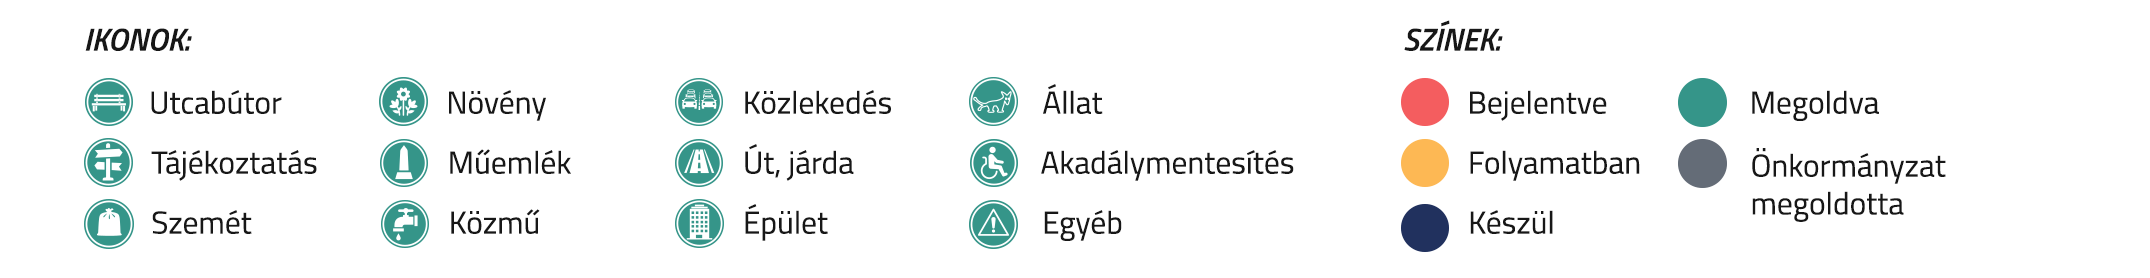
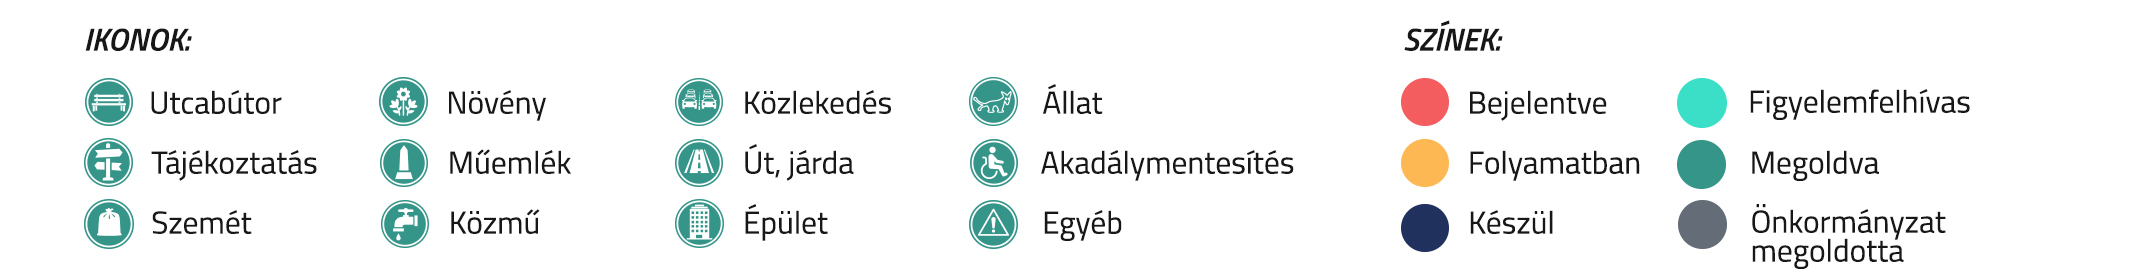
2023 01 19 fix

Changed region(s): [[0.7791, 0.6906, 0.9037, 0.9496], [0.7791, 0.2878, 0.9349, 0.4604], [0.7791, 0.4892, 0.9037, 0.6906]]

diff --git a/templates/single_submission.html b/templates/single_submission.html
@@ -19,7 +19,7 @@
   <!--LIGHTBOX-->
   <link href="../static/css/lightbox.css" rel="stylesheet" />
   <!--META-->
-  <title>{{ submission[0].title }}</title>
+  <title>Rendkívüli Ügyek Minisztériuma</title>
   <meta property="og:site_name" content="Rendkívüli Ügyek Minisztériuma" />
   <meta property="og:title" content="{{ submission[0].title }}" />
   {% if submission[0].solution %}
@@ -80,14 +80,15 @@
     </strong>{{ submission[0].solution }}</p>
   {% endif %}
          
-  {% if submission[0].status != 'Befejezve' 
-     and submission[0].status != 'Inaktív' 
+  {% if submission[0].status != 'Megoldva' 
+     and submission[0].status != 'Inaktív'
+     and submission[0].status != 'Figyelemfelhívás' 
      and submission[0].status != 'Duplika'
      and submission[0].status != 'Hivatal megoldotta'
   %}
     <p>Ha szeretnél részt venni a felújításban, írj nekünk a
-    <a href="mailto: kovacs.gergely@mkkp.hu?subject=Városfelújítós jelentkezés: {{ submission[0].title }} id:{{ submission[0].id }}">
-     <strong>kovacs.gergely@mkkp.hu</strong>
+    <a href="mailto: rendkivuliugyek@mkkp.hu?subject=Városfelújítós jelentkezés: {{ submission[0].title }} id:{{ submission[0].id }}">
+     <strong>rendkivuliugyek@mkkp.hu</strong>
     </a>email címre!</p>
   {% endif %}     
         
@@ -308,9 +309,9 @@
        <p>Mutasd ugyanezt Google térképen!</p>
      </a>
 
-     {% if current_user.email == submission[0].owner_email 
-        or role == 'coordinator' 
-        or role == 'admin' %}
+     {% if role == 'coordinator' 
+        or role == 'admin' 
+     %}
         
      <br />
         
@@ -339,15 +340,16 @@
    });
    
    map.on('load', () => {
-   var status_dict = {
-     'Befejezve': 'befejezve',
-     'Bejelentve': 'bejelentve',
-     'Duplika': 'szurke',
-     'Folyamatban': 'folyamatban',
-     'Hivatal megoldotta': 'szurke',
-     'Inaktív': 'szurke',
-     'Készül': 'keszul'
-     };
+    var status_dict = {
+    'Megoldva': 'megoldva',
+    'Figyelemfelhívás': 'figyelemfelhivas',
+    'Bejelentve': 'bejelentve',
+    'Duplika': 'szurke',
+    'Folyamatban': 'folyamatban',
+    'Hivatal megoldotta': 'szurke',
+    'Inaktív': 'szurke',
+    'Készül': 'keszul',
+    }
 
    var type_dict = {
      'Akadálymentesítés': 'akadalymentesites',

diff --git a/templates/all_submission.html b/templates/all_submission.html
@@ -117,7 +117,8 @@
             <option>Bejelentve</option>
             <option>Folyamatban</option>
             <option>Készül</option>
-            <option>Befejezve</option>
+            <option>Megoldva</option>
+            <option>Figyelemfelhívás</option>
           </select>
 
           <label for="type">Típus</label>
@@ -251,7 +252,7 @@
                 <label>&nbsp;&nbsp;{{ row.problem_type }}</label>
               </div>
             </div>
-            {% elif status == 'Befejezve' %}
+            {% elif status == 'Megoldva' %}
             <div
               class="card_head"
               style="background-color:#35968a; color:white;"
@@ -261,6 +262,16 @@
                 <label>&nbsp;&nbsp;{{ row.problem_type }}</label>
               </div>
             </div>
+            {% elif status == 'Figyelemfelhívás' %}
+            <div
+              class="card_head"
+              style="background-color:#3be0c8; color:white;"
+            >
+              <div class="card_label">
+                <img src="/static/category/{{ row.problem_type }}.png" />
+                <label>&nbsp;&nbsp;{{ row.problem_type }}</label>
+              </div>
+            </div> 
             {% endif%}
 
             <img
@@ -351,7 +362,7 @@
                 <label>&nbsp;&nbsp;{{ row.problem_type }}</label>
               </div>
             </div>
-            {% elif status == 'Befejezve' %}
+            {% elif status == 'Megoldva' %}
             <div
               class="card_head"
               style="background-color:#35968a; color:white;"
@@ -361,6 +372,16 @@
                 <label>&nbsp;&nbsp;{{ row.problem_type }}</label>
               </div>
             </div>
+            {% elif status == 'Figyelemfelhívás' %}
+            <div
+              class="card_head"
+              style="background-color:#3be0c8; color:white;"
+            >
+              <div class="card_label">
+                <img src="/static/category/{{ row.problem_type }}.png" />
+                <label>&nbsp;&nbsp;{{ row.problem_type }}</label>
+              </div>
+            </div>            
             {% endif%}
 
             <img

diff --git a/templates/map.html b/templates/map.html
@@ -85,10 +85,10 @@
             name="status"
           >
             <option selected value="">Válassz a státuszok közül!</option>
-            <option>Bejelentve</option>
+            <option>Megoldva</option>
+            <option>Figyelemfelhívás</option>
             <option>Folyamatban</option>
             <option>Készül</option>
-            <option>Befejezve</option>
           </select>
         </div>
         <button type="submit" class="btn btn-light form-control rounded-0">
@@ -108,8 +108,8 @@
 
     <picture>
       <source media="(max-width: 465px)"
-      srcset={{url_for('static',filename='site_img/jelmagyarazat_mobil.jpg')}}>
-      <img src={{url_for('static',filename='site_img/jelmagyarazat.png')}}
+      srcset={{url_for('static',filename='site_img/jelmagyarazat_mobil.webp')}}>
+      <img src={{url_for('static',filename='site_img/jelmagyarazat.webp')}}
       alt="Jelmagyarázat">
     </picture>
 
@@ -126,7 +126,8 @@
 
   <script>
     var status_dict = {
-    'Befejezve': 'befejezve',
+    'Megoldva': 'megoldva',
+    'Figyelemfelhívás': 'figyelemfelhivas',
     'Bejelentve': 'bejelentve',
     'Duplika': 'szurke',
     'Folyamatban': 'folyamatban',

diff --git a/templates/change_submission_data.html b/templates/change_submission_data.html
@@ -34,12 +34,13 @@
               onchange="detectChange(this)">
         <option selected>{{ submission.status }}</option>
         <option value="Bejelentve">Bejelentve</option>
+        <option value="Megoldva">Megoldva</option>
+        <option value="Figyelemfelhívás">Figyelemfelhívás</option>
         <option value="Folyamatban">Folyamatban</option>
         <option value="Készül">Készül</option>
         <option value="Hivatal megoldotta">Hivatal megoldotta</option>
         <option value="Inaktív">Inaktív</option>
         <option value="Duplika">Duplika</option>
-        <option value="Befejezve">Befejezve</option>
       </select>
       <br />
       <hr />
@@ -176,7 +177,7 @@
   <script>
     function detectChange(status) {
       var content = document.getElementById("solution_div");
-      if (status.value === "Befejezve") {
+      if (status.value === "Megoldva") {
         if (content.style.display === "block") {
           content.style.display = "none";
         } else {

diff --git a/templates/user_account.html b/templates/user_account.html
@@ -69,9 +69,12 @@
      or role == 'admin' %}
     <a href="https://drive.google.com/drive/folders/1UOZ2Hhkbx_BJcnWon-641U0I1h00DL2j" target="_blank">
       <p>Dokumentáció és egyéb anyagok</p>
-    </a>     
+    </a>
     <a href="https://github.com/xngst/rendkivuli_ugyek"  target="_blank">
       <p>Github oldal</p>
+    </a>
+    <a href="https://rendkivuliugyek.com/dashboard/hourly_load" target="_blank">
+      <p>Monitorozó oldal</p>
     </a>
   {% endif %}  
   <a href="/user_data_info" target="_blank">

diff --git a/templates/statistics.html b/templates/statistics.html
@@ -78,7 +78,8 @@
       'bejelentett',
       'folyamatban',
       'készül',
-      'befejezett'
+      'befejezett',
+      'figyelemfelhívás'
      ];
 
     var data = {
@@ -89,8 +90,9 @@
       '#feb955',
       '#22325e',
       '#35968a',
+      '#3be0c8',
       ],
-      data: [{{submitted_count}},{{wip_count}},{{progress_count}},{{completed_count}}],
+      data: [{{submitted_count}},{{wip_count}},{{progress_count}},{{completed_count}},{{awareness_count_count}}],
     }]
     };
 

diff --git a/templates/base.html b/templates/base.html
@@ -13,7 +13,7 @@
   -->
   
 <html lang="hu">
-  <title>Városfelújítós</title>
+  <title>Rendkívüli Ügyek Minisztériuma</title>
   <meta charset="UTF-8" />
   <meta name="author" content="prof_of_duplo" />
   <meta name="viewport" content="width=device-width, initial-scale=1.0" />

diff --git a/app.py b/app.py
@@ -38,7 +38,7 @@ from flask import url_for
 from flask_migrate import Migrate
 
 # Flask Login
-# from flask_login import current_user
+from flask_login import current_user
 from flask_login import login_required
 from flask_login import login_user
 from flask_login import logout_user
@@ -207,10 +207,6 @@ def add_submission():
         #validate images for extension
         allowed_extensions = ["jpg","jpeg","png"]
         files = request.files.getlist("files")
-        print("----")
-        print(dir(files))
-        print(len(files))
-        print("----")
         if request.files.getlist("files"):
             for picture in request.files.getlist("files"):
                 extension = picture.filename.split(".")[1]
@@ -264,7 +260,7 @@ def add_submission():
         BODY_HTML = create_submission_mail_SES(submission)
         RECIPIENT = request.form["email"]
 
-	try:
+        try:
             response = client.send_email(
             Destination={'ToAddresses': [RECIPIENT]},
             Message={'Subject': {'Charset': CHARSET, 'Data': SUBJECT},
@@ -272,7 +268,6 @@ def add_submission():
             Source=SENDER
             )
         except Exception as err:
-            print(err)
             pass
         
         flash("Sikeres bejelentés! Küldtünk egy levelet is!", "success")
@@ -378,7 +373,7 @@ def change_submission_data(submission_id):
                     "success",
                 )
 
-            if new_status == "Befejezve":
+            if new_status == "Megoldva":
 
                 SUBJECT = f"RÜM befejezett ügy: {submission.title}"
                 BODY_HTML = create_solution_mail_SES(submission)
@@ -470,7 +465,7 @@ def single_submission(id):
             # Ha kerül fel egy bejelentéshez utána kép, akkor szerintem átállhatna magától a bejelentés státusza befejezettre
             changed_by = request.form["current_user"]
             submission = SubmissionModel.query.filter_by(id=submission_id).first()
-            submission.status = "Befejezve"
+            submission.status = "Megoldva"
             submission.status_changed_date = get_date()
             submission.status_changed_by = changed_by
             db.session.commit()
@@ -602,6 +597,7 @@ def assign(id):
 @login_required
 def delete_comment(id):
     "#"
+    
     comment = CommentModel.query.filter_by(id=id)
     submission_id = comment.first().parent_id
     comment.delete()
@@ -657,6 +653,11 @@ def change_cover(status_type, id):
 @login_required
 def delete_submission(id):
     "#"
+    
+    if not current_user.role == "admin" or not current_user.role == "coordinator":
+        flash("Bejelentést csak admin vagy kordinátor törölhet!", "danger")
+        return render_template("index.html")
+    
     submission = SubmissionModel.query.filter_by(id=id)
     submission.delete()
 
@@ -685,7 +686,8 @@ def statistics():
     submitted_count = SubmissionModel.query.filter_by(status="Bejelentve").count()
     wip_count = SubmissionModel.query.filter_by(status="Folyamatban").count()
     progress_count = SubmissionModel.query.filter_by(status="Készül").count()
-    completed_count = SubmissionModel.query.filter_by(status="Befejezve").count()
+    completed_count = SubmissionModel.query.filter_by(status="Megoldva").count()
+    awareness_count = SubmissionModel.query.filter_by(status="Figyelemfelhívás").count()
 
     grouped = SubmissionModel.query.group_by("county").all()
     county_count_dict = {}
@@ -703,6 +705,7 @@ def statistics():
         wip_count=wip_count,
         progress_count=progress_count,
         completed_count=completed_count,
+        awareness_count=awareness_count,
         county_count_dict=county_dump,
     )
 
@@ -798,14 +801,6 @@ def user_account():
     "#"
     if request.method == "POST":
 
-        if "new_user_name" in request.form:
-            user_id = int(request.form["user_id"])
-            new_user_name = request.form["new_user_name"]
-            user = UserModel.query.filter_by(id=user_id).first()
-            user.user_name = new_user_name
-            db.session.commit()
-            flash("Mostantól így hívunk.", "success")
-
         if "own_submissions" in request.form:
             user_id = int(request.form["user_id"])
             user = UserModel.query.filter_by(id=user_id).first()
@@ -853,6 +848,11 @@ def change_user_data(user_id):
 @login_required
 def user_management():
     "#"
+    
+    if not current_user.role == "admin":
+        flash("Ide csak admin léphet!","danger")
+        return render_template("index.html")
+    
     if request.method == "POST":
         pass
     user_list = UserModel.query.all()
@@ -877,9 +877,14 @@ def user_manage(id):
 
 
 # ÜGYEK TÁBLÁZATOS LETÖLTÉSE
-@login_required
 @app.route("/download", methods=["GET"])
+@login_required
 def download_data():
+    
+    if not current_user.role == "admin" or not current_user.role == "coordinator":
+        flash("Csak admin vagy kordinátor tölthet le!","danger")
+        return render_template("index.html")
+
     submissions = SubmissionModel.query.all()
 
     title = [submission.title for submission in submissions]
@@ -944,7 +949,9 @@ def register():
 def site_login():
     "#"
     return oauth.auth0.authorize_redirect(
-        redirect_uri=url_for("callback", _external=True, _scheme="https")
+        redirect_uri=url_for("callback", _external=True, _scheme="https"
+        #redirect_uri=url_for("callback", _external=True, _scheme="http"
+        )
     )
 
 
@@ -1029,7 +1036,7 @@ def page_not_found():
 @app.errorhandler(502)
 def page_not_found():
     "#"
-    return render_template("404.html")
+    return render_template("502.html")
     
 
 # APP RUN
